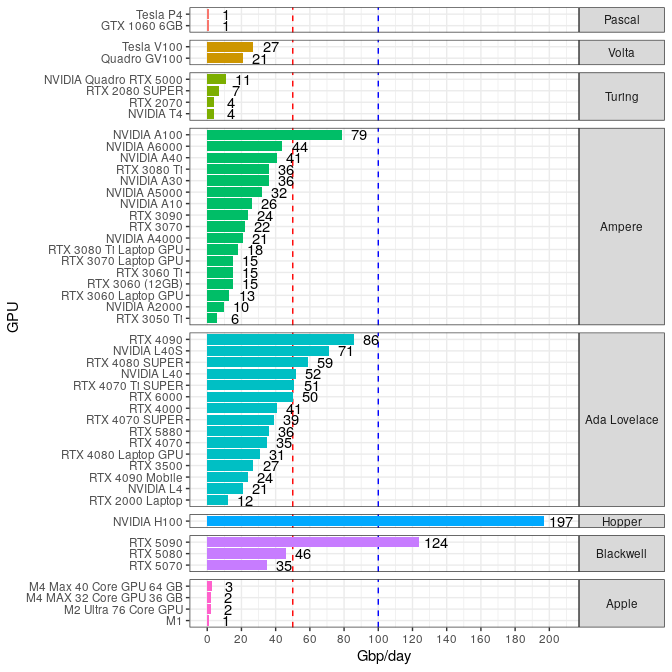
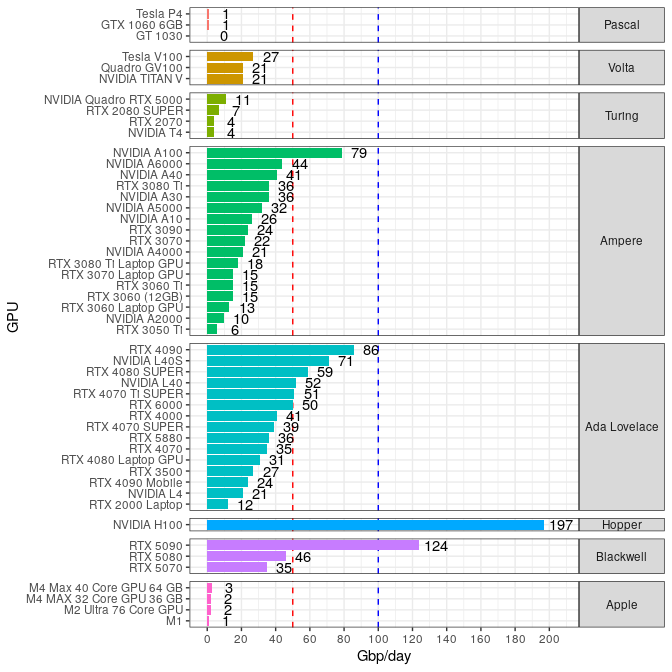
added GT1030 and Titan V

Changed region(s): [[0.0312, 0.0, 1.0, 0.9062], [0.9062, 0.3125, 0.9688, 0.375], [0.875, 0.625, 1.0, 0.6562]]

diff --git a/README.md b/README.md
@@ -1,7 +1,7 @@
 README
 ================
 Rasmus Kirkegaard
-11 August, 2025
+12 August, 2025
 
 ## Aim
 
